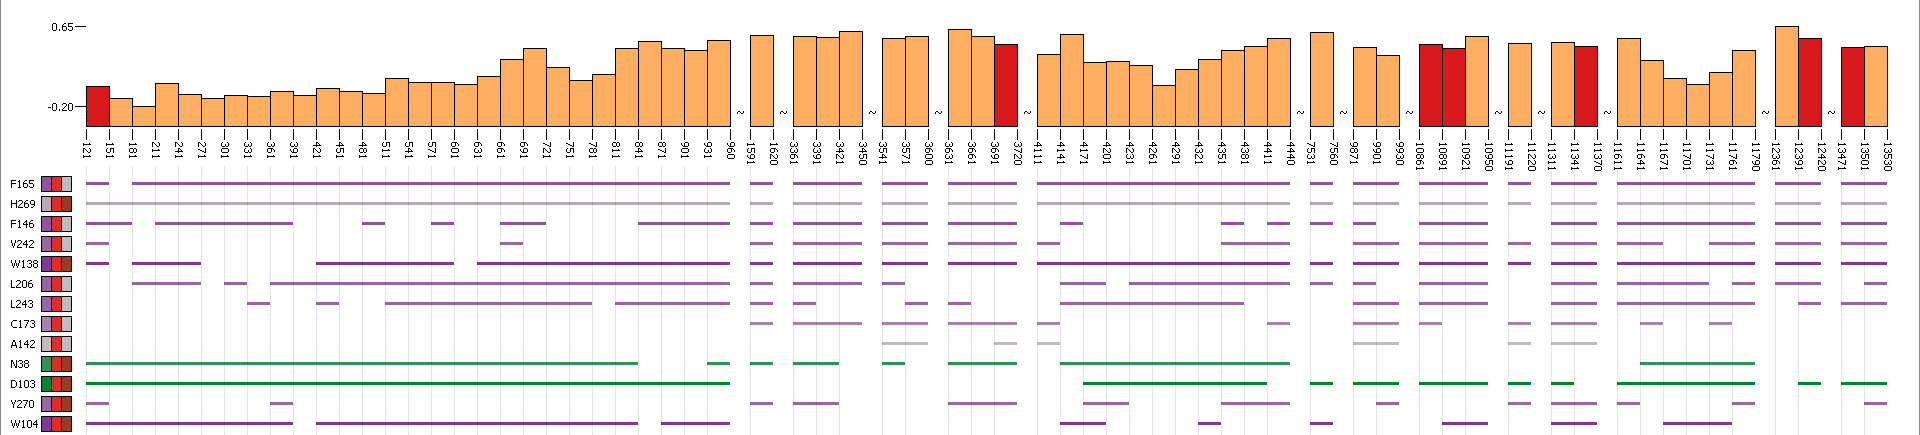
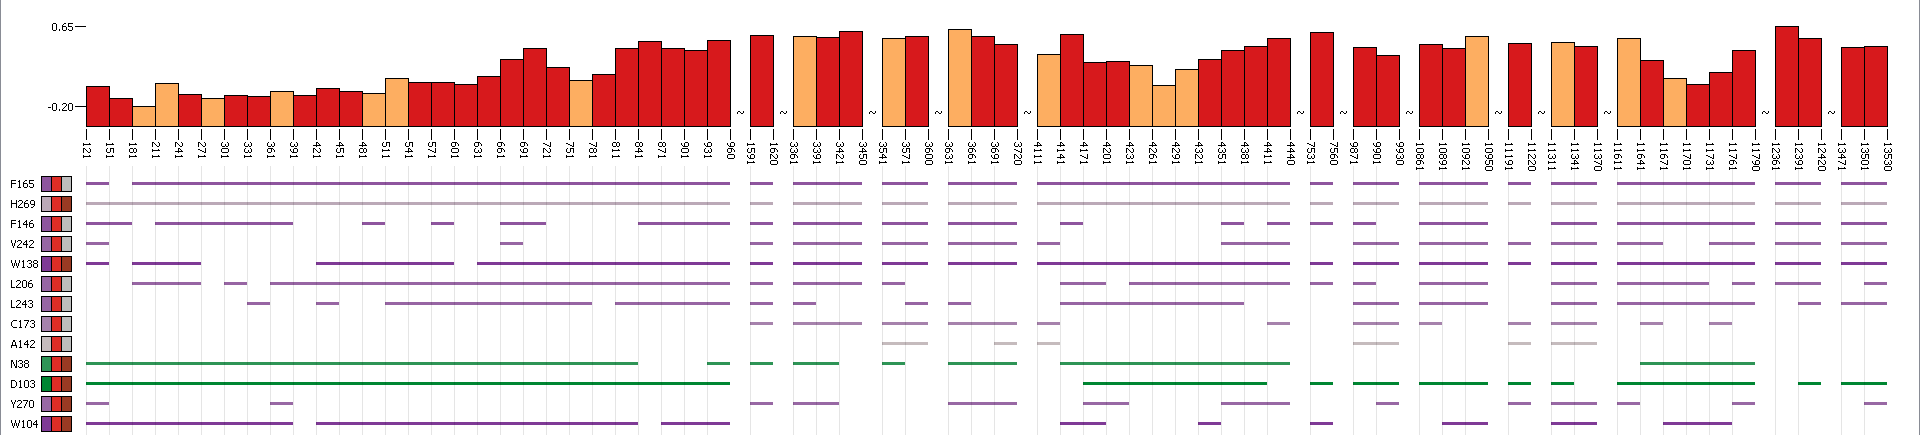
Corrected figure 11

diff --git a/BioVis/BioVis_BMC_template/ligand.tex b/BioVis/BioVis_BMC_template/ligand.tex
@@ -691,7 +691,7 @@ Even though the amino acid view contained the list of all amino acids surroundin
 This was enabled thanks to the ability of the view to color individual amino acids based on their properties. 
 Here the biochemists selected the green amino acids (asparagine with ID 38 and aspartic acid with ID 103). 
 As can be seen in Figure~\ref{fig:case_hydro_vs_dist_3d} the selected amino acids exactly correspond to the estimated active site in the protein.
-This was also confirmed by the bar chart representation in Figure~\ref{fig:case_hydro_vs_dist_bar} where the majority of bars have TODO red color which corresponds to the closeness of the ligand to the active site.
+This was also confirmed by the bar chart representation in Figure~\ref{fig:case_hydro_vs_dist_bar} where the majority of bars have red color which corresponds to the closeness of the ligand to the active site.
 
 
 \begin{figure}[tb]
